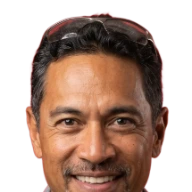
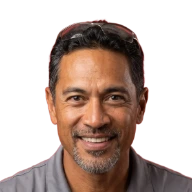
Move the award race into the right column, loosen Hoani's crop, and rebuild the dossier as a page
The user reviewed the running app and rejected all three of the last commit's results. Two were
layout, one was taste. Measured on the live app rather than reasoned about, which is the only way any
of this gets settled.

1. AWARD RACE WAS UNDER THE NEWSROOM, WASTING THE RIGHT COLUMN

I had stacked three panels down the wide column on the argument that a three-row leaderboard of stat
comparisons wants width. The argument was about the panel being CROWDED and the answer was the wrong
move: the wide column ran three panels deep while the right-hand column held one short matchup card
and roughly 600px of empty space beneath it.

The right column now carries the two panels that are genuinely narrow. Measured before and after:

  before   headline(777) sideline(777) award(777, BELOW)   featured(499, alone, ~600px empty)
  after    headline(777) sideline(777)                      award(499)  featured(499)

Nothing is stretched to fill anything, and the page is a 2x2 instead of a 3-deep column beside a
half-empty one.

2. HOANI'S FACE WAS TOO ZOOMED IN

SIDE_FRAC 0.42 gave a face filling the frame. Checked against the five marks already shipped --
`chrisgatz`, `hidalgoperez` and the rest are all LOOSE upper-body crops with the subject fairly small
in frame -- so the convention is not a tight headshot at all. 0.42 was tighter than the convention;
0.58 centred at 0.28 is a head-and-shoulders that is readable at the 96px render ceiling without being
a face. 9.5 KB.
[…]

diff --git a/src/components/media/HeadlinerDetailsModal.tsx b/src/components/media/HeadlinerDetailsModal.tsx
@@ -1,38 +1,54 @@
 import React from 'react';
-import { HEADLINER_BY_ID, type HeadlinerId } from '../../logic/headliners';
+import { ACCENT_VAR, HEADLINER_BY_ID, type GameEventKind, type HeadlinerId } from '../../logic/headliners';
 import { VOICE_BANKS } from '../../logic/headlinerVoices';
 import { HEADLINER_WALLPAPERS } from './headlinerImages';
-import { HeadlinerPortrait } from '../ui/HeadlinerPortrait';
 import { Modal } from '../ui';
-import { ACCENT_VAR } from '../../logic/headliners';
 
 /**
  * A REPORTER'S DOSSIER.
  *
  * ============================================================================
- * WHY A MODAL AND NOT A PAGE
+ * THE PREVIOUS DESIGN, AND WHY IT WAS REPLACED
  * ============================================================================
  *
- * Reporters have no hub, no route, no card grid and no table. They exist in exactly one place: the
- * byline on a headline. Building them a page means inventing navigation for six characters who are
- * never browsed, and a page with one entry point is a page nobody finds. So the entry point is the
- * byline itself, and the destination is the only shape that suits something you reach from a
- * sentence rather than from a list.
+ * It opened with a full-bleed photograph of the reporter at 208px tall, with a small portrait plate
+ * sitting on top of it in the corner, and then ran three italic beat lines, five bordered "covers"
+ * boxes and two more italic quotes. Screenshotted, it read as soup: a large photo of a person
+ * shouting at the reader, a second smaller picture of the same person pasted over it, and then eleven
+ * nearly identical italic lines with no hierarchy between them. The photograph was competing with the
+ * portrait for the job of saying who this is, and losing, because a 96px plate is what you actually
+ * recognise a byline by.
  *
  * ============================================================================
- * WHY THE WALLPAPER RUNS AT FULL STRENGTH HERE, AND ONLY HERE
+ * WHAT REPLACED IT, AND THE ONE IDEA
  * ============================================================================
  *
- * The forecaster registry's comment is the rule and it is not negotiable: "a wallpaper at full
- * strength behind a price is a wallpaper you cannot read a price on." Nothing numeric is layered over
- * this hero -- no price, no figure, no probability -- so the thing the rule protects is not present
- * and the budget can relax. This is the one surface where the wallpaper is being LOOKED AT rather than
- * sat behind, which is the distinction the wallpaper plan draws in its §5.4.
+ * It is now a PRINTED PAGE, and the single organising idea is ONE THING PER BLOCK, in the order a
+ * reader wants them:
  *
- * The byline strip on the newsroom panel uses a LIGHTER scrim than the forecaster card for the same
- * reason in the other direction: a name is not a price, so the reporter backdrop can stay warmer and
- * still be readable.
+ *   WHO      a 16:9 masthead carrying the name and role
+ *   WHAT THEY BELIEVE   one beat, set as a pull-quote
+ *   WHAT THEY COVER     one line of text
+ *   WHAT THEY SAY       one sample, under a rule
+ *
+ * ONE THING PER BLOCK also means ONE PICTURE. The previous version had a large photograph AND a
+ * portrait plate pasted over it -- two pictures of the same person arguing about who he is, in a
+ * layout where the big one lost. The wallpaper is a picture OF the reporter, so it does the job on
+ * its own and the plate is gone from here. The circular mark still exists, on the byline, which is
+ * the one place a reader recognises a voice by its badge.
+ *
+ * The masthead is 16:9 because that is the shape the artwork is: every reporter wallpaper is a
+ * 1376x768 frame. Letterboxing a 16:9 source into a 20px strip threw away most of the picture and
+ * left a smear, which is the third way this design had been wrong. Kept at its own shape it reads as
+ * a photograph of a place, and the reporter's name sits on the bottom third where the gradient is
+ * heaviest -- so the forecaster registry's rule still holds and nothing legible rests on the image
+ * itself.
+ *
+ * One beat instead of three, one sample instead of two. That is not a reduction for its own sake:
+ * three italic lines of identical weight is a wall, and a wall is what you stop reading. A single
+ * line, larger and set against an accent rule, is a claim -- which is what a beat is.
  */
+
 export interface HeadlinerDetailsModalProps {
   isOpen: boolean;
   onClose: () => void;
@@ -40,7 +56,7 @@ export interface HeadlinerDetailsModalProps {
 }
 
 /** Event-kind labels, so a beat reads as English rather than as an enum. */
-const KIND_LABEL: Record<string, string> = {
+const KIND_LABEL: Record<GameEventKind, string> = {
   no_hitter: 'no-hitter',
   perfect_game: 'perfect game',
   cycle: 'cycle',
@@ -70,24 +86,24 @@ const KIND_LABEL: Record<string, string> = {
 };
 
 /**
- * Two voice samples, taken deterministically from the persona's own banks.
+ * One quote, taken deterministically from the persona's own banks.
  *
- * Deterministic on purpose: `pickBeat` already seeds from the event so the same save shows the same
- * newsroom, and a dossier that reshuffled its quotes on every open would be a different kind of lie.
- * These come from the `generic` banks, which are the lines that render on any event, so the samples
- * cannot fail to match whatever game the reader happened to arrive from.
+ * Deterministic because `pickBeat` already seeds from the event so the same save shows the same
+ * newsroom; a dossier that reshuffled its quote on every open would be a different kind of lie. These
+ * come from the `generic` banks, which are the lines that render on any event, so a sample can never
+ * fail to match whatever game the reader arrived from.
  */
-const sampleVoices = (id: HeadlinerId, count: number): string[] => {
+const oneVoice = (id: HeadlinerId, offset: number): string | null => {
   const bank = VOICE_BANKS[id];
-  if (!bank) return [];
+  if (!bank) return null;
   const pool = [...bank.titles.generic, ...bank.decks.generic];
-  const out: string[] = [];
-  for (let i = 0; i < Math.min(count, pool.length); i += 1) {
-    const line = pool[(i * 2 + 1) % pool.length];
-    if (line && !out.includes(line)) out.push(line);
-  }
-  return out;
+  if (pool.length === 0) return null;
+  return pool[offset % pool.length];
 };
+
+const BlockLabel: React.FC<{ children: React.ReactNode }> = ({ children }) => (
+  <span className="t-label text-[var(--color-ink-faint)]">{children}</span>
+);
 
 export const HeadlinerDetailsModal: React.FC<HeadlinerDetailsModalProps> = ({
   isOpen,
@@ -100,7 +116,8 @@ export const HeadlinerDetailsModal: React.FC<HeadlinerDetailsModalProps> = ({
 
   const wallpaper = HEADLINER_WALLPAPERS[headlinerId];
   const accent = ACCENT_VAR[profile.accentToken];
-  const voices = sampleVoices(headlinerId, 2);
+  const beat = profile.beat[0];
+  const voice = oneVoice(headlinerId, 1);
 
   return (
     <Modal
@@ -109,87 +126,68 @@ export const HeadlinerDetailsModal: React.FC<HeadlinerDetailsModalProps> = ({
       title={
         <span className="flex items-center gap-2">
           <span style={{ color: accent }}>{profile.displayName}</span>
-          <span className="t-caption text-[var(--color-ink-faint)]">
-            {profile.outlet} &middot; {profile.role}
-          </span>
+          <span className="t-caption text-[var(--color-ink-faint)]">{profile.role}</span>
         </span>
       }
-      widthClass="max-w-2xl"
+      widthClass="max-w-xl"
     >
-      <div className="flex flex-col gap-4">
+      {/*
+        THE MASTHEAD. 16:9, the shape the artwork actually is, with the identity on the bottom third
+        where the gradient is heaviest. `alt` is kept -- unlike the byline backdrop, this is the only
+        description of the reporter's surroundings.
+      */}
+      <div className="relative mb-4 overflow-hidden border border-[var(--color-chrome-lo)]">
         {wallpaper ? (
-          <div className="relative overflow-hidden border border-[var(--color-chrome-lo)]">
+          <>
             <img
               src={wallpaper.src}
               alt={wallpaper.alt}
               loading="lazy"
-              className="h-40 w-full object-cover sm:h-52"
+              className="aspect-video w-full object-cover"
             />
-            {/*
-              A short gradient rather than the forecaster card's three-stop scrim. There is nothing
-              to read across this strip -- the name is in the modal's own title bar -- so the job here
-              is only to stop the portrait from sitting on a raw photograph. Kept deliberately weak so
-              the wallpaper is actually visible, which is the entire reason this surface exists.
-            */}
             <div
               aria-hidden="true"
               className="absolute inset-0"
               style={{
-                background: 'linear-gradient(180deg, rgba(5,7,13,0.10) 0%, rgba(5,7,13,0.55) 100%)',
+                background:
+                  'linear-gradient(180deg, rgba(5,7,13,0.25) 0%, rgba(5,7,13,0.55) 55%, rgba(5,7,13,0.94) 100%)',
               }}
             />
-            <div className="absolute bottom-2 left-3 flex items-center gap-2">
-              <HeadlinerPortrait id={headlinerId} size="lg" />
-              <span className="t-caption text-[var(--color-ink-dim)]">{profile.outlet}</span>
-            </div>
-          </div>
+          </>
         ) : (
-          /*
-            The bare fallback, kept real. The wallpaper plan wanted Gatz to have none so the absence
-            would read as character; he has one, so this path is no longer a designed moment. It stays
-            because a `Partial` registry has to have a defined behaviour for absence, and because a
-            reporter who loses an asset should degrade rather than break.
-          */
-          <div className="flex items-center gap-3 border border-[var(--color-chrome-lo)] px-3 py-4">
-            <HeadlinerPortrait id={headlinerId} size="lg" />
-            <span className="t-caption text-[var(--color-ink-faint)]">{profile.outlet}</span>
-          </div>
+          <div className="aspect-video w-full bg-[var(--color-sunken)]" aria-hidden="true" />
         )}
-
-        {/*
-          THE BEAT, verbatim. This reporter's standing position, in their own words -- the same lines
-          the newsroom panel shows, because the dossier is a deeper look at the same person rather
-          than a different one.
-        */}
-        <div className="flex flex-col gap-1">
-          {profile.beat.slice(0, 3).map((line) => (
-            <p key={line} className="t-body italic text-[var(--color-ink-dim)]">&ldquo;{line}&rdquo;</p>
-          ))}
+        <div className="absolute inset-x-0 bottom-0 flex flex-col gap-0.5 p-3">
+          <p className="t-h3" style={{ color: accent }}>{profile.displayName}</p>
+          <p className="t-caption text-[var(--color-ink-dim)]">
+            {profile.outlet} &middot; {profile.role}
+          </p>
         </div>
-
-        <div className="flex flex-col gap-1">
-          <span className="t-caption text-[var(--color-ink-faint)]">Covers</span>
-          <div className="flex flex-wrap gap-1">
-            {profile.covers.map((kind) => (
-              <span
-                key={kind}
-                className="border border-[var(--color-chrome-lo)] px-2 py-0.5 t-caption text-[var(--color-ink-dim)]"
-              >
-                {KIND_LABEL[kind] ?? kind}
-              </span>
-            ))}
-          </div>
-        </div>
-
-        {voices.length > 0 && (
-          <div className="flex flex-col gap-1">
-            <span className="t-caption text-[var(--color-ink-faint)]">In their words</span>
-            {voices.map((line) => (
-              <p key={line} className="t-body text-[var(--color-ink)]">&ldquo;{line}&rdquo;</p>
-            ))}
-          </div>
-        )}
       </div>
+
+      {/* WHAT THEY BELIEVE. One line, against an accent rule. */}
+      {beat && (
+        <div className="mt-4 border-l-2 pl-3" style={{ borderColor: accent }}>
+          <BlockLabel>The beat</BlockLabel>
+          <p className="mt-0.5 t-body italic text-[var(--color-ink)]">{beat}</p>
+        </div>
+      )}
+
+      {/* WHAT THEY COVER. A line of text, not a row of boxes. */}
+      <div className="mt-4 flex flex-col gap-1">
+        <BlockLabel>Covers</BlockLabel>
+        <p className="t-caption text-[var(--color-ink-dim)]">
+          {profile.covers.map((k) => KIND_LABEL[k]).join(' · ')}
+        </p>
+      </div>
+
+      {/* WHAT THEY SAY. One sample, below a rule, deliberately quieter than the beat. */}
+      {voice && (
+        <div className="mt-4 border-t border-[var(--color-chrome-lo)] pt-3">
+          <BlockLabel>Also says</BlockLabel>
+          <p className="mt-0.5 t-caption italic text-[var(--color-ink-dim)]">{voice}</p>
+        </div>
+      )}
     </Modal>
   );
 };

diff --git a/src/components/HomeDashboard.tsx b/src/components/HomeDashboard.tsx
@@ -735,18 +735,24 @@ export const HomeDashboard: React.FC<HomeDashboardProps> = ({
           />
 
           {/*
-            THE AWARD RACE SITS UNDER THE SIDELINE REPORTS, in the wide column.
+            THE AWARD RACE IS BESIDE THE NEWSROOM, NOT UNDER IT.
 
-            It was in the narrow right-hand stack beneath the featured game, where a
-            three-row leaderboard shared a 360px column with a priced matchup and lost.
-            Every row of it is a stat comparison, and stat comparisons want width: the
-            odds bar under each name had roughly a third of the room it needs to be
-            readable at a glance, which is the only thing an odds bar is for.
+            It spent a commit underneath, in the wide column, on the argument that a three-row
+            leaderboard of stat comparisons wants width. That argument was about the panel being
+            CROWDED, and it was answered by the wrong move: stacking three panels down one column
+            left the right-hand 360px holding a single short matchup card and roughly 600px of empty
+            space beneath it. The award race is three rows. It fits in a narrow column next to a
+            story; it does not need a whole wide one to itself.
+
+            So the right column carries the two panels that are genuinely narrow -- the award race
+            and the featured odds -- and the wide column carries the two that are genuinely wide,
+            the headline and the column about it. Nothing is stretched to fill anything.
           */}
-          <MvpRacePanel board={mvpBoard} onBoardChange={setMvpBoard} entries={mvpAwards} />
         </div>
 
         <div className="flex min-w-0 flex-col gap-5">
+          <MvpRacePanel board={mvpBoard} onBoardChange={setMvpBoard} entries={mvpAwards} />
+
           <FeaturedGamePanel
             gameId={featuredGame ? featuredGame.game.gameId : null}
             angle={featuredGame ? featuredGame.angle : null}
